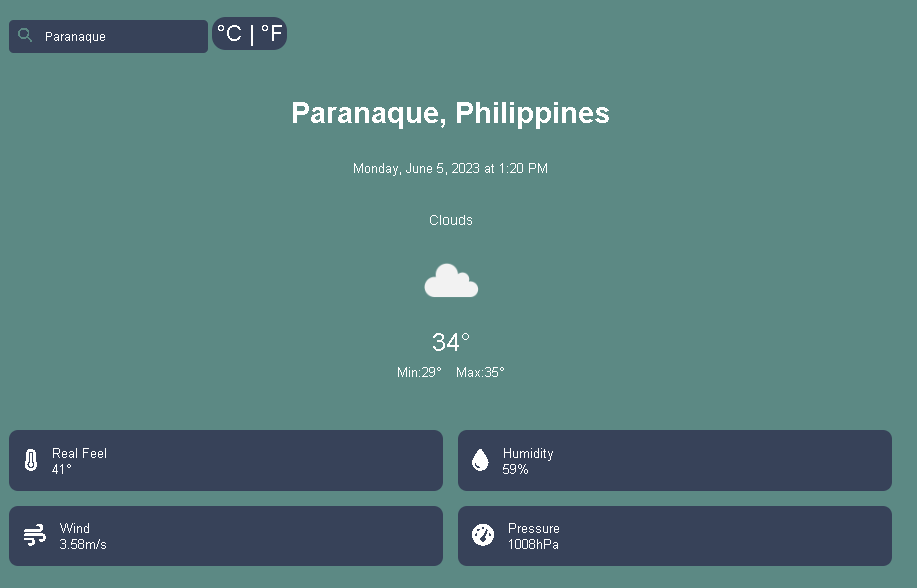
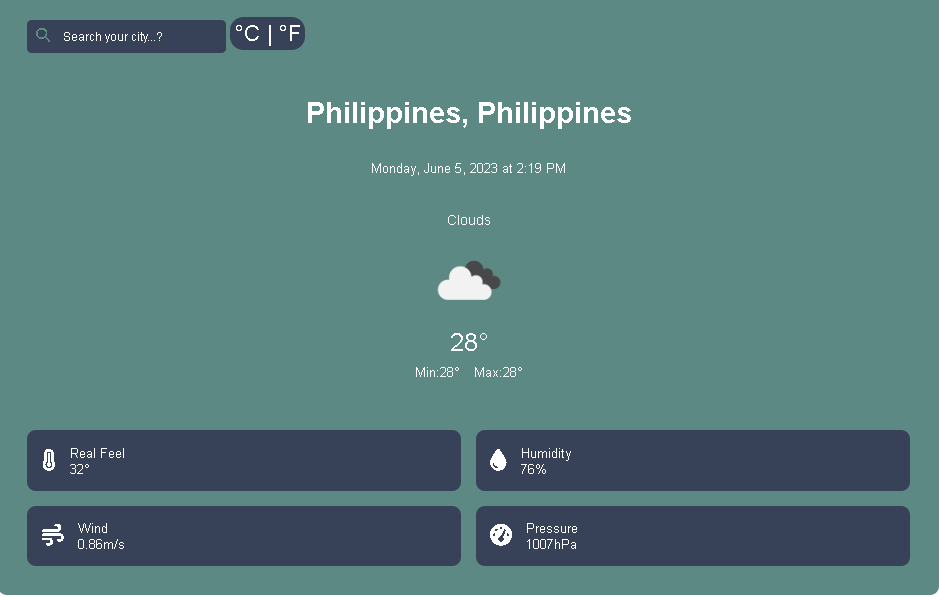
other changes with the images

diff --git a/index.html b/index.html
@@ -139,7 +139,7 @@
 
 <div class="portfolio-container">
     <div class="portfolio-box">
-        <img src="img/Capture.PNG" class="ems-img">
+        <img src="img/EMS.PNG" class="ems-img">
         <div class="portfolio-layer">
             <h4>EMS Project</h4>
             <p>This project covers front-end Employess-Management-System using HTML, CSS, BOOTSTRAP</p>
@@ -147,45 +147,30 @@
         </div>
     </div>
     <div class="portfolio-box">
-        <img src="img/javascript.JPG" alt=""  class="ems-img">
+        <img src="img/Todolist.PNG" alt=""  class="ems-img">
         <div class="portfolio-layer">
             <h4>TODO-LIST Project</h4>
             <p>This project allows you to store, add, delete, edit your list plans, and help you in everyday schedule. This is just a simple todo-list which bunch javascript code, html5, CSS3</p>
-            <a href="https://kath2208.github.io/TODO-LIST-/"><i class='bx bx-link-external'></i></a>
+            <a href="https://kath2208.github.io/TODO-LIST-/"  target="_blank"><i class='bx bx-link-external'></i></a>
         </div>
     </div>
     <div class="portfolio-box">
         <img src="img/Weather App.PNG" alt="" class="ems-img">
         <div class="portfolio-layer">
             <h4>Weather App Project</h4>
-            <p>Lorem ipsum dolor sit amet consectetur adipisicing elit. Minus, quibusdam quas, impedit dicta quae accusamus ea quam officia, vitae saepe eveniet quis expedita iure cupiditate mollitia ducimus laudantium repellendus ex!</p>
-            <a href="#"><i class='bx bx-link-external'></i></a>
-        </div>
-    </div>
-     <div class="portfolio-box">
-        <img src="img/javascript.JPG" alt="">
-        <div class="portfolio-layer">
-            <h4>EMS Project</h4>
-            <p>Lorem ipsum dolor sit amet consectetur adipisicing elit. Minus, quibusdam quas, impedit dicta quae accusamus ea quam officia, vitae saepe eveniet quis expedita iure cupiditate mollitia ducimus laudantium repellendus ex!</p>
-            <a href="#"><i class='bx bx-link-external'></i></a>
+            <p>This is a website weather tracker which you can search which city your in, this allows you to forecast the Weather in a certain location by just search and it will shows the current forecast or weather. This website uses avascript, HTML5, CSS3</p>
+            <a href="https://kath2208.github.io/WeatherApp/"  target="_blank"><i class='bx bx-link-external'></i></a>
         </div>
     </div>
     <div class="portfolio-box">
-        <img src="img/javascript.JPG" alt="">
+        <img src="img/Home.PNG" alt="" class="ems-img">
         <div class="portfolio-layer">
-            <h4>EMS Project</h4>
-            <p>Lorem ipsum dolor sit amet consectetur adipisicing elit. Minus, quibusdam quas, impedit dicta quae accusamus ea quam officia, vitae saepe eveniet quis expedita iure cupiditate mollitia ducimus laudantium repellendus ex!</p>
-            <a href="#"><i class='bx bx-link-external'></i></a>
+            <h4>Augmented Reality Alphabets Project</h4>
+            <p> Augmented Reality (AR) is a technology that superimposes a computer-generated image on a user's view of the real world. Thus, providing a composite view whereas AR adds digital elements to a live view often by using the camera on a smart phone. The AR provides new experience of technology for the users.            </p>
+            <a href="https://drive.google.com/file/d/1VyKPc-ALYuq1XWKlueVo-wIAiKbLEP3-/view?usp=sharing"><i class='bx bx-link-external'></i></a>
         </div>
     </div>
-    <div class="portfolio-box">
-        <img src="img/javascript.JPG" alt="">
-        <div class="portfolio-layer">
-            <h4>EMS Project</h4>
-            <p>Lorem ipsum dolor sit amet consectetur adipisicing elit. Minus, quibusdam quas, impedit dicta quae accusamus ea quam officia, vitae saepe eveniet quis expedita iure cupiditate mollitia ducimus laudantium repellendus ex!</p>
-            <a href="#"><i class='bx bx-link-external'></i></a>
-        </div>
-    </div>
+
 </div>
 </section>
 <!-- portfolio section design -->

diff --git a/design.css b/design.css
@@ -271,7 +271,7 @@ margin-bottom: 4rem;
 .portfolio-container
 {
 display: grid;
-grid-template-columns: repeat(3,1fr);
+grid-template-columns: repeat(2,1fr);
 align-items: center;
 gap: 2.5rem;
 
@@ -627,6 +627,9 @@ gap: 2.5rem;
   .ems-img{
     width: 488px;
     height: 360px;
+
+    
+
   }
   
   .container::after {
